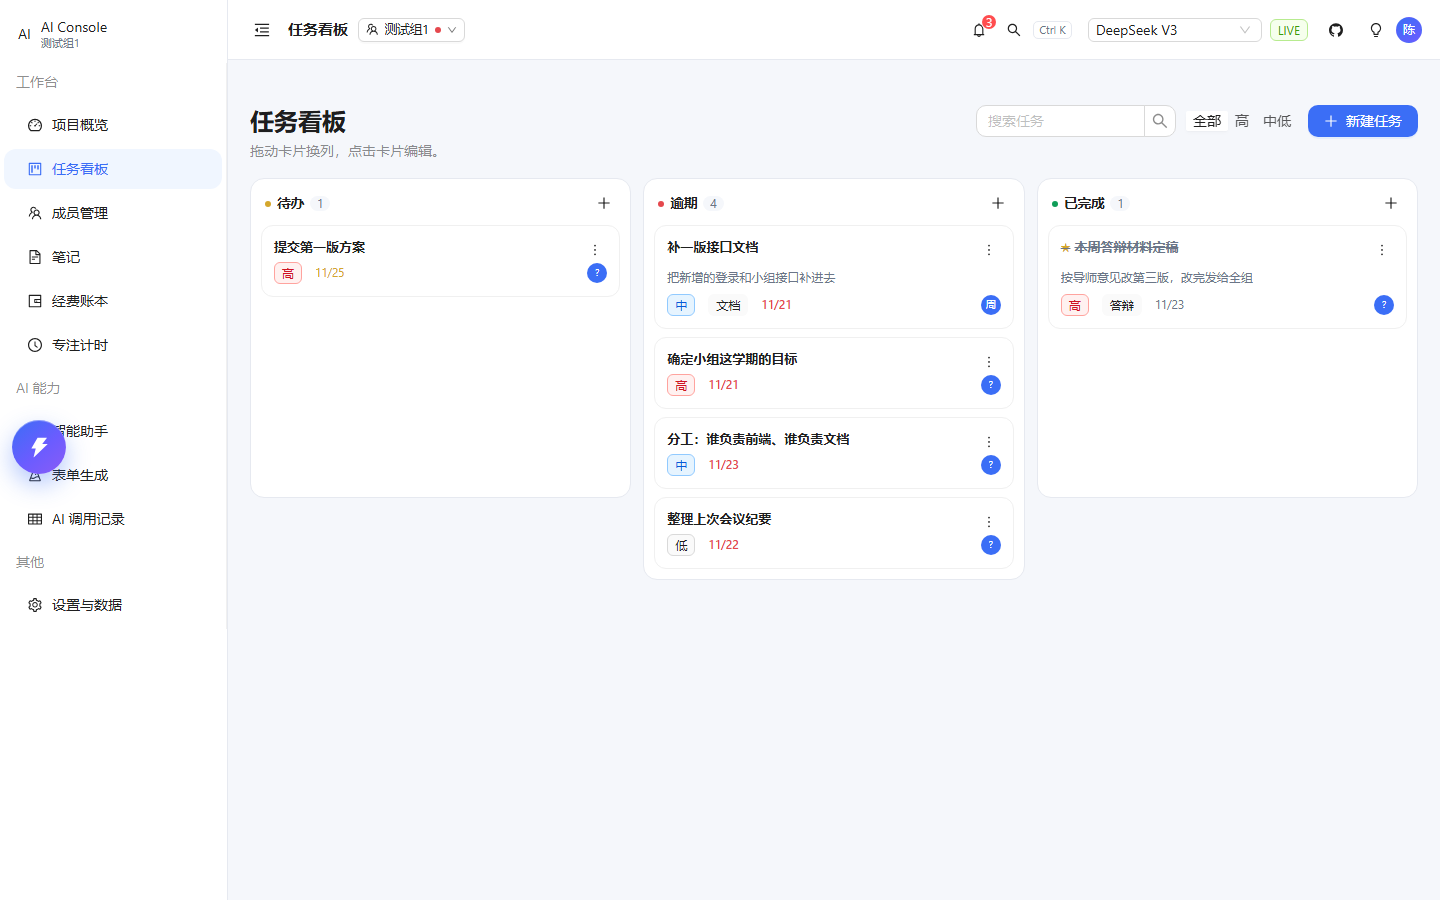
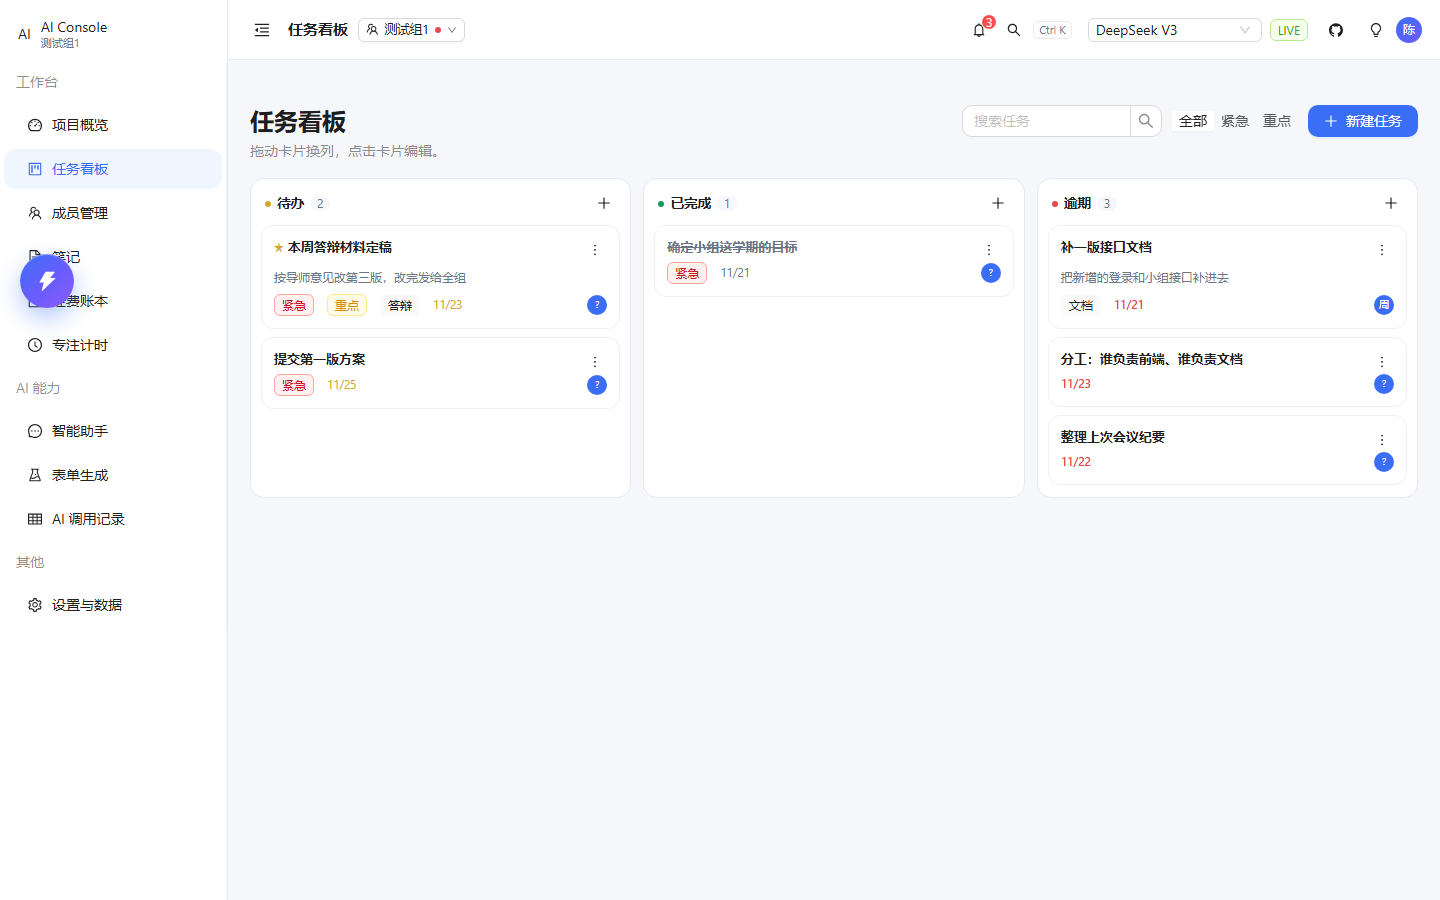
feat: 看板紧急/重点、日志落库、金额与悬浮球修正
- 看板：逾期列移到最右；优先级改为 紧急(红)/重点(黄) 两个开关，筛选同步
- 编辑任务：负责人只显示姓名；成员已移出小组时不再回显原始 id
- AI 调用日志落 SQLite，按用户存（换设备可见），apiFetch 补 Auth 头
- 金额超过 1 万/1 亿自动换算单位，避免撑破表格
- 悬浮球：窗口缩放后重新吸附到最近边缘，不再停在屏幕中间

diff --git a/src/features/workspace/BoardPage.tsx b/src/features/workspace/BoardPage.tsx
@@ -14,6 +14,7 @@ import {
   Segmented,
   Select,
   Space,
+  Switch,
   Tag,
   Tooltip,
   Typography,
@@ -30,14 +31,14 @@ import dayjs from 'dayjs';
 import { useNavigate } from 'react-router-dom';
 import { cn } from '@/lib/utils';
 import { useWorkspaceStore } from './store';
-import { PRIORITY_COLOR, PRIORITY_LABEL, type Priority, type Task, type TaskStatus } from './types';
+import type { Priority, Task, TaskStatus } from './types';
 
 type ColumnKey = 'todo' | 'overdue' | 'done';
 
 const COLUMNS: Array<{ key: ColumnKey; label: string; color: string }> = [
   { key: 'todo', label: '待办', color: '#d4a72c' },
-  { key: 'overdue', label: '逾期', color: '#e5484d' },
   { key: 'done', label: '已完成', color: '#0f9d58' },
+  { key: 'overdue', label: '逾期', color: '#e5484d' },
 ];
 
 /** 逾期由截止时间推导，不是独立状态 */
@@ -57,15 +58,13 @@ function dueTone(task: Task): 'overdue' | 'soon' | 'normal' {
   return 'normal';
 }
 
-const ROLE_TEXT: Record<string, string> = { owner: '创建者', admin: '管理员', member: '成员' };
-
 export function BoardPage() {
   const navigate = useNavigate();
   const { tasks, members, moveTask, addTask, updateTask, removeTask } = useWorkspaceStore();
   const [draggingId, setDraggingId] = useState<string | null>(null);
   const [overColumn, setOverColumn] = useState<ColumnKey | null>(null);
   const [keyword, setKeyword] = useState('');
-  const [priorityFilter, setPriorityFilter] = useState<'all' | 'high' | 'normal'>('all');
+  const [filter, setFilter] = useState<'all' | 'urgent' | 'important'>('all');
   const [editing, setEditing] = useState<Task | 'new' | null>(null);
   const [form] = Form.useForm();
 
@@ -77,12 +76,12 @@ export function BoardPage() {
   const filtered = useMemo(() => {
     const lower = keyword.trim().toLowerCase();
     return tasks.filter((task) => {
-      if (priorityFilter === 'high' && task.priority !== 'high') return false;
-      if (priorityFilter === 'normal' && task.priority === 'high') return false;
+      if (filter === 'urgent' && task.priority !== 'high') return false;
+      if (filter === 'important' && !task.important) return false;
       if (!lower) return true;
       return task.title.toLowerCase().includes(lower) || task.description.toLowerCase().includes(lower);
     });
-  }, [tasks, keyword, priorityFilter]);
+  }, [tasks, keyword, filter]);
 
   const columns = COLUMNS.map((column) => ({
     ...column,
@@ -95,7 +94,8 @@ export function BoardPage() {
       title: '',
       desc: '',
       status: column === 'done' ? 'done' : 'todo',
-      priority: 'mid',
+      urgent: false,
+      important: false,
       assigneeId: null,
       dueAt: column === 'overdue' ? dayjs().subtract(1, 'day') : null,
     });
@@ -103,12 +103,15 @@ export function BoardPage() {
 
   const openEdit = (task: Task) => {
     setEditing(task);
+    const assigneeExists = members.some((member) => member.id === task.assigneeId);
     form.setFieldsValue({
       title: task.title,
       desc: task.description,
       status: task.status,
-      priority: task.priority,
-      assigneeId: task.assigneeId,
+      urgent: task.priority === 'high',
+      important: task.important,
+      // 人员已被移出小组时不要显示原始 id，直接留空
+      assigneeId: assigneeExists ? task.assigneeId : null,
       dueAt: task.dueAt ? dayjs(task.dueAt) : null,
     });
   };
@@ -119,7 +122,8 @@ export function BoardPage() {
       title: values.title.trim(),
       description: values.desc ?? '',
       status: values.status as TaskStatus,
-      priority: values.priority as Priority,
+      priority: (values.urgent ? 'high' : 'mid') as Priority,
+      important: Boolean(values.important),
       assigneeId: values.assigneeId ?? null,
       dueAt: values.dueAt ? (values.dueAt as dayjs.Dayjs).valueOf() : null,
     };
@@ -153,12 +157,12 @@ export function BoardPage() {
           />
           <Segmented
             size="small"
-            value={priorityFilter}
-            onChange={(value) => setPriorityFilter(value as typeof priorityFilter)}
+            value={filter}
+            onChange={(value) => setFilter(value as typeof filter)}
             options={[
               { label: '全部', value: 'all' },
-              { label: '高', value: 'high' },
-              { label: '中低', value: 'normal' },
+              { label: '紧急', value: 'urgent' },
+              { label: '重点', value: 'important' },
             ]}
           />
           <Button type="primary" icon={<PlusOutlined />} onClick={() => openNew('todo')}>
@@ -256,7 +260,8 @@ export function BoardPage() {
                     {task.description && <p className="task-desc">{task.description}</p>}
 
                     <div className="task-meta">
-                      <Tag color={PRIORITY_COLOR[task.priority]}>{PRIORITY_LABEL[task.priority]}</Tag>
+                      {task.priority === 'high' && <Tag color="red">紧急</Tag>}
+                      {task.important && <Tag color="gold">重点</Tag>}
                       {task.tags.map((tag) => (
                         <Tag key={tag} bordered={false}>
                           {tag}
@@ -326,22 +331,17 @@ export function BoardPage() {
               ]}
             />
           </Form.Item>
-          <Form.Item name="priority" label="优先级">
-            <Select
-              options={(['high', 'mid', 'low'] as Priority[]).map((p) => ({
-                value: p,
-                label: PRIORITY_LABEL[p],
-              }))}
-            />
+          <Form.Item name="urgent" label="紧急" valuePropName="checked" extra="红色标记，会进提醒">
+            <Switch />
+          </Form.Item>
+          <Form.Item name="important" label="重点" valuePropName="checked" extra="黄色标记，长期跟进">
+            <Switch />
           </Form.Item>
           <Form.Item name="assigneeId" label="负责人">
             <Select
               allowClear
               placeholder="未指派"
-              options={members.map((m) => ({
-                value: m.id,
-                label: `${m.displayName} · ${ROLE_TEXT[m.role] ?? '成员'}`,
-              }))}
+              options={members.map((m) => ({ value: m.id, label: m.displayName }))}
             />
           </Form.Item>
           <Form.Item name="dueAt" label="截止日期">

diff --git a/src/features/expenses/ExpensesPage.tsx b/src/features/expenses/ExpensesPage.tsx
@@ -26,7 +26,7 @@ import { Donut } from '@/components/charts';
 import { useAuthStore } from '@/store/auth';
 import { useWorkspaceStore } from '@/features/workspace/store';
 import { useExpenseStore } from './store';
-import { categoryTotals, memberSummary, settle, yuan, type Expense } from './settle';
+import { categoryTotals, memberSummary, money, settle, type Expense } from './settle';
 
 const CATEGORIES = ['餐饮', '交通', '采购', '场地', '其他'];
 const ALL = 'ALL';
@@ -141,7 +141,7 @@ export function ExpensesPage() {
       width: 88,
       align: 'right',
       sorter: (a, b) => a.amount - b.amount,
-      render: (value: number) => <b>{yuan(value)}</b>,
+      render: (value: number) => <b className="money-cell">{money(value)}</b>,
     },
     {
       title: '',
@@ -182,22 +182,20 @@ export function ExpensesPage() {
       <Row gutter={[12, 12]}>
         <Col xs={12} md={8}>
           <Card size="small">
-            <Statistic title={`${month.format('M')} 月支出`} value={total / 100} precision={2} prefix="¥" />
+            <Statistic title={`${month.format('M')} 月支出`} value={money(total)} />
           </Card>
         </Col>
         <Col xs={12} md={8}>
           <Card size="small">
-            <Statistic title="我垫付" value={mine.paid / 100} precision={2} prefix="¥" />
+            <Statistic title="我垫付" value={money(mine.paid)} />
           </Card>
         </Col>
         <Col xs={24} md={8}>
           <Card size="small">
             <Statistic
               title="我应分摊"
-              value={mine.owed / 100}
-              precision={2}
-              prefix="¥"
-              suffix={<Typography.Text type="secondary" style={{ fontSize: 12 }}>（结算差额见右）</Typography.Text>}
+              value={money(mine.owed)}
+              suffix={<Typography.Text type="secondary" style={{ fontSize: 12 }}>（差额见右）</Typography.Text>}
             />
           </Card>
         </Col>
@@ -240,7 +238,7 @@ export function ExpensesPage() {
                     <span className="settle-from">{nameOf[transfer.from] ?? '?'}</span>
                     <span className="settle-arrow">→</span>
                     <span className="settle-to">{nameOf[transfer.to] ?? '?'}</span>
-                    <b>{yuan(transfer.amount)}</b>
+                    <b className="money-cell">{money(transfer.amount)}</b>
                   </li>
                 ))}
               </ul>
@@ -249,7 +247,7 @@ export function ExpensesPage() {
 
           <Card size="small" className="panel" title="分类占比" style={{ marginTop: 12 }}>
             {slices.length ? (
-              <Donut data={slices} centerLabel="本月" centerValue={`¥${(total / 100).toFixed(0)}`} />
+              <Donut data={slices} centerLabel="本月" centerValue={money(total)} />
             ) : (
               <Empty image={Empty.PRESENTED_IMAGE_SIMPLE} description="暂无数据" />
             )}

diff --git a/src/components/FloatingBall.tsx b/src/components/FloatingBall.tsx
@@ -67,7 +67,25 @@ export function FloatingBall() {
 
   useEffect(() => {
     setPoint(loadPoint());
-    const onResize = () => setPoint((prev) => (prev ? clamp(prev) : prev));
+    // 窗口尺寸变化后，除了夹回可视区，还要重新吸附到最近的边缘，
+    // 否则缩小窗口时球会停在屏幕中间
+    const onResize = () => {
+      setPoint((prev) => {
+        if (!prev) return prev;
+        const clamped = clamp(prev);
+        const snapLeft = clamped.x + SIZE / 2 < window.innerWidth / 2;
+        const snapped = clamp({
+          x: snapLeft ? MARGIN + 8 : window.innerWidth - SIZE - MARGIN - 8,
+          y: clamped.y,
+        });
+        try {
+          localStorage.setItem(STORAGE_KEY, JSON.stringify(snapped));
+        } catch {
+          /* 忽略 */
+        }
+        return snapped;
+      });
+    };
     window.addEventListener('resize', onResize);
     return () => window.removeEventListener('resize', onResize);
   }, []);

diff --git a/src/lib/api.ts b/src/lib/api.ts
@@ -1,4 +1,5 @@
 import { env } from '@/env';
+import { getToken } from './http';
 import { getVisitorId } from './visitor';
 
 /**
@@ -8,6 +9,9 @@ import { getVisitorId } from './visitor';
 export function apiFetch(path: string, init: RequestInit = {}): Promise<Response> {
   const headers = new Headers(init.headers);
   headers.set('X-Visitor-Id', getVisitorId());
+  // 带上登录态：调用日志按用户落库，没有这个头就只会写进匿名分组
+  const token = getToken();
+  if (token) headers.set('Authorization', `Bearer ${token}`);
   return fetch(`${env.apiBase}${path}`, { ...init, headers });
 }
 

diff --git a/src/features/expenses/settle.ts b/src/features/expenses/settle.ts
@@ -109,3 +109,15 @@ export function categoryTotals(
 export function yuan(cents: number): string {
   return `¥${(cents / 100).toFixed(2)}`;
 }
+
+/**
+ * 展示用的金额：大了换成「万 / 亿」，避免 1111111.00 把表格撑变形。
+ * 结算和统计都走这个，原始分值仍然参与计算。
+ */
+export function money(cents: number): string {
+  const value = cents / 100;
+  const abs = Math.abs(value);
+  if (abs >= 1e8) return `¥${(value / 1e8).toFixed(2)}亿`;
+  if (abs >= 1e4) return `¥${(value / 1e4).toFixed(2)}万`;
+  return `¥${value.toFixed(2)}`;
+}

diff --git a/src/features/logs/LogsPage.tsx b/src/features/logs/LogsPage.tsx
@@ -167,7 +167,7 @@ export function LogsPage() {
           调用日志
         </Typography.Title>
         <Typography.Paragraph type="secondary" style={{ marginBottom: 0 }}>
-          只显示你自己的调用记录，服务重启后清空。
+          只显示你自己的调用记录，换设备也在。
         </Typography.Paragraph>
       </div>
 

diff --git a/src/styles/global.css b/src/styles/global.css
@@ -2932,3 +2932,9 @@ html[data-theme='dark'] .aurora-sheen {
   background: #e5484d;
   flex: none;
 }
+
+
+.money-cell {
+  white-space: nowrap;
+  font-variant-numeric: tabular-nums;
+}
